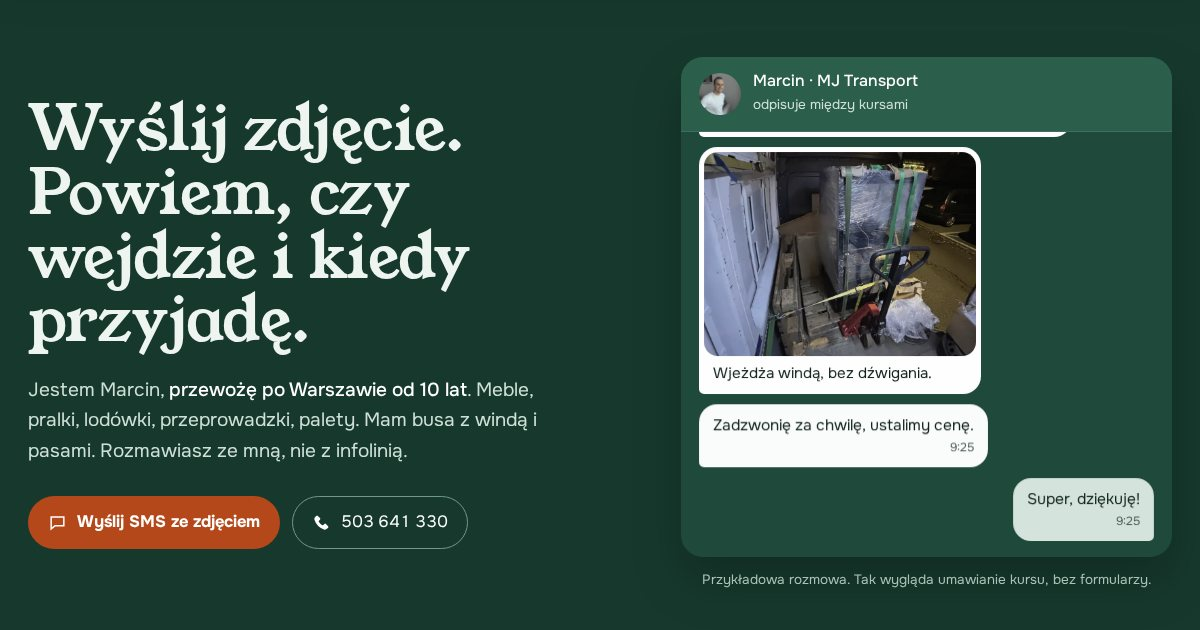
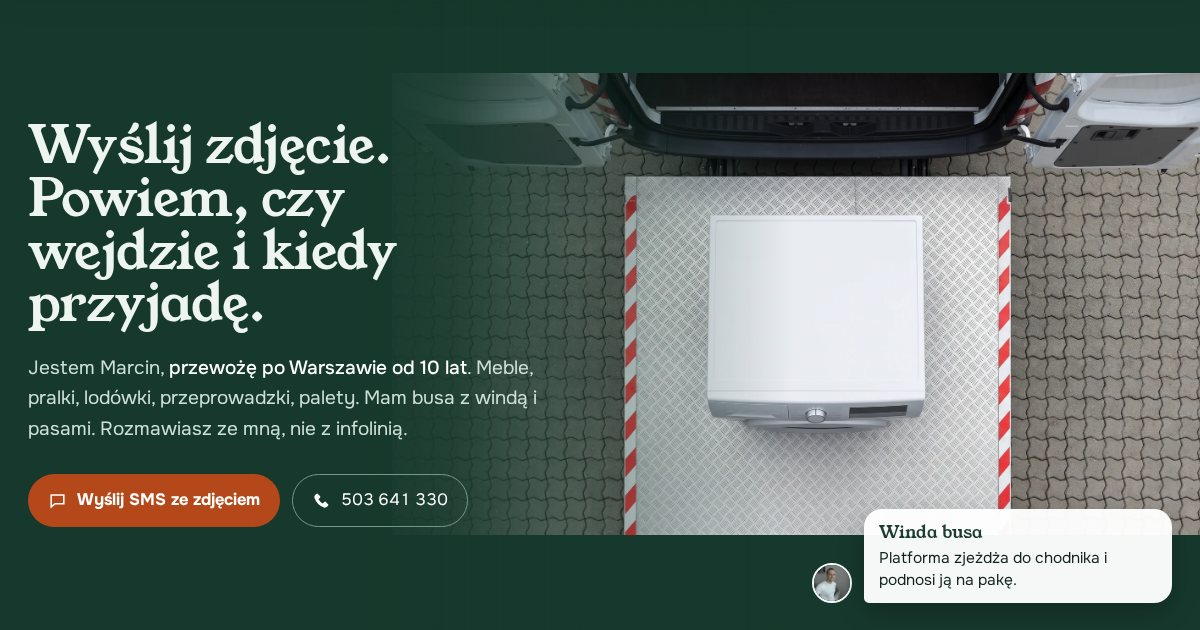
MJ Transport W2: nowe hero — pralka z góry w czterech kadrach (mieszkanie, klatka, winda busa, paka), czat przeniesiony do sekcji pytań
Claude-Session: https://claude.ai/code/session_01USdgDgttiw38zyboxaxrj8

diff --git a/p/mj-transport-w2-rozmowa/index.html b/p/mj-transport-w2-rozmowa/index.html
@@ -56,13 +56,9 @@ section[id]{scroll-margin-top:calc(var(--hdr-h) + 8px)}
 .mnav nav a{display:block;padding:12px 20px;text-decoration:none;font-size:16px}
 .mnav nav a.mcall{color:var(--or-d);font-weight:700}
 
-/* hero */
-.hero{background:var(--g);color:var(--ontxt);padding-top:var(--hdr-h);position:relative}
-.js .hero{height:300vh}
-.pin{min-height:calc(100vh - var(--hdr-h));display:flex;align-items:center;padding:40px 0}
-.js .pin{position:sticky;top:var(--hdr-h);height:calc(100vh - var(--hdr-h))}
-.hero .wrap{display:grid;grid-template-columns:6fr 5fr;gap:64px;align-items:center}
-.h1{font-family:var(--f-d);font-weight:400;font-size:clamp(42px,5.2vw,76px);line-height:1.02;letter-spacing:-.01em}
+
+/* hero: pralka z góry */
+.h1{font-family:var(--f-d);font-weight:400;font-size:clamp(38px,4.3vw,64px);line-height:1.02;letter-spacing:-.01em}
 .lead{margin-top:22px;font-size:19px;color:#CFE0D8;max-width:40ch}
 .lead b{color:#fff;font-weight:500}
 .ctas{display:flex;flex-wrap:wrap;gap:12px;margin-top:30px}
@@ -71,7 +67,27 @@ section[id]{scroll-margin-top:calc(var(--hdr-h) + 8px)}
 .btn-or svg,.btn-ln svg{width:19px;height:19px}
 .btn-ln{display:inline-flex;align-items:center;gap:10px;border:1.5px solid #6E9A87;color:#fff;text-decoration:none;padding:12px 19px;border-radius:999px;font-size:16.5px}
 .btn-ln:hover{border-color:#fff}
-
+.hero{background:var(--g);color:var(--ontxt);padding-top:var(--hdr-h);position:relative}
+.js .hero{height:420vh}
+.pin{position:relative;min-height:calc(100vh - var(--hdr-h));overflow:hidden;display:flex;align-items:center}
+.js .pin{position:sticky;top:var(--hdr-h);height:calc(100vh - var(--hdr-h))}
+.scene{position:absolute;inset:0;background:var(--g)}
+.scene .still{position:absolute;right:0;top:0;height:100%;width:72%;object-fit:cover;object-position:50% 52%}
+.scene canvas{position:absolute;inset:0;width:100%;height:100%;display:none}
+.js .scene canvas{display:block}.js .scene .still{display:none}
+.scene::after{content:"";position:absolute;inset:0;background:linear-gradient(90deg,var(--g) 0%,var(--g) 30%,rgba(23,57,45,.9) 38%,rgba(23,57,45,.35) 52%,rgba(23,57,45,0) 66%);pointer-events:none}
+.htxt{position:relative;z-index:2;display:flex;align-items:center;justify-content:space-between;gap:40px;height:100%}
+.hcol{max-width:520px}
+.bub{align-self:flex-end;margin-bottom:6vh;display:flex;gap:12px;align-items:flex-end;max-width:360px;transition:opacity .35s}
+.bub img{width:40px;height:40px;border-radius:50%;object-fit:cover;object-position:50% 18%;flex:none;border:2px solid #fff}
+.bub p{background:#fff;color:var(--ink);border-radius:18px 18px 18px 5px;padding:11px 15px;font-size:15.5px;line-height:1.45;box-shadow:0 10px 30px rgba(0,0,0,.25)}
+.bub b{display:block;font-family:var(--f-d);font-weight:400;font-size:17px;color:var(--g);margin-bottom:2px}
+.bub.fade{opacity:0}
+.scrollhint{position:absolute;left:28px;bottom:18px;z-index:2;font-size:13.5px;color:var(--onmute);display:flex;gap:8px;align-items:center;transition:opacity .4s}
+.scrollhint i{display:block;width:1px;height:26px;background:var(--onmute);animation:hint 1.8s infinite}
+@keyframes hint{0%{transform:scaleY(.2);transform-origin:top}50%{transform:scaleY(1);transform-origin:top}100%{transform:scaleY(.2);transform-origin:bottom}}
+.chat.static{height:auto;box-shadow:none;border:1px solid rgba(255,255,255,.1)}
+.chat.static .thread{overflow:visible}
 .chat{background:var(--g2);border-radius:22px;padding:0;overflow:hidden;display:flex;flex-direction:column;height:min(500px,calc(100vh - var(--hdr-h) - 80px));box-shadow:0 24px 50px rgba(0,0,0,.22)}
 .chat-h{display:flex;align-items:center;gap:12px;padding:14px 18px;border-bottom:1px solid rgba(255,255,255,.1);background:var(--g3)}
 .chat-h img{width:42px;height:42px;border-radius:50%;object-fit:cover;object-position:50% 18%}
@@ -114,8 +130,8 @@ section[id]{scroll-margin-top:calc(var(--hdr-h) + 8px)}
 .me figcaption{font-size:14.5px;color:var(--mute);margin-top:12px}
 
 /* pytania */
-.faq-grid{display:grid;grid-template-columns:4fr 8fr;gap:64px;align-items:start}
-.faq-grid .side{position:sticky;top:calc(var(--hdr-h) + 30px)}
+.faq-grid{display:grid;grid-template-columns:5fr 7fr;gap:64px;align-items:start}
+.faq-grid .side{position:static}
 .faq-grid .side p{color:var(--onmute);margin-top:18px;max-width:30ch}
 .faq details{border-top:1px solid rgba(255,255,255,.16)}
 .faq details:last-child{border-bottom:1px solid rgba(255,255,255,.16)}
@@ -175,14 +191,14 @@ footer b{font-family:var(--f-d);font-weight:400;color:var(--g);font-size:20px}
 
 @media(max-width:1060px){
   .nav{display:none}.mnav{display:block}
-  .hero .wrap{grid-template-columns:1fr;gap:22px}
-  .pin{align-items:flex-start;padding:22px 0}
   .me,.faq-grid,.contact{grid-template-columns:1fr;gap:40px}
   .faq-grid .side{position:static}
   .me figure{max-width:420px}
-  .js .pin .wrap{height:100%;grid-template-rows:auto minmax(0,1fr);align-items:stretch}
-  .js .chatwrap{min-height:0;display:flex;flex-direction:column}
-  .js .chat{flex:1;min-height:0;height:auto}
+  .htxt{flex-direction:column;align-items:flex-start;justify-content:space-between;padding-top:26px;padding-bottom:22px}
+  .scene .still{width:100%;height:78%;top:auto;bottom:0}
+  .scene::after{background:linear-gradient(180deg,var(--g) 0%,var(--g) 24%,rgba(23,57,45,.6) 31%,rgba(23,57,45,0) 40%)}
+  .bub{align-self:flex-start;margin-bottom:0}
+  .scrollhint{display:none}
 }
 @media(max-width:760px){
   body{font-size:16.5px}
@@ -193,8 +209,9 @@ footer b{font-family:var(--f-d);font-weight:400;color:var(--g);font-size:20px}
   .h1{font-size:34px}
   .hero .lead{display:none}
   .hero .ctas{display:none}
-  .js .pin{min-height:0;height:calc(100svh - var(--hdr-h) - 68px);padding:16px 0}
-  .hero .wrap{gap:14px}
+  .js .pin{min-height:0;height:calc(100svh - var(--hdr-h) - 68px)}
+  .pin{min-height:calc(100svh - var(--hdr-h) - 68px)}
+  .bub p{font-size:14.5px;padding:9px 13px}.bub b{font-size:16px}
   .msg{font-size:14.5px}
   .chat-h{padding:10px 14px}.chat-h img{width:34px;height:34px}
   .thread{padding:12px;gap:8px}
@@ -219,9 +236,9 @@ footer b{font-family:var(--f-d);font-weight:400;color:var(--g);font-size:20px}
 @media(prefers-reduced-motion:reduce){
   html{scroll-behavior:auto}
   .js .hero{height:auto}
-  .js .pin{position:relative;top:0;height:auto}
-  .js .thread .h{display:block}.js .thread .typing.h{display:none}
-  .chat{height:auto}
+  .js .pin{position:relative;top:0}
+  .js .scene canvas{display:none}.js .scene .still{display:block}
+  .scrollhint i{animation:none}
   .js .reveal,.js .stagger>*{opacity:1!important;transform:none!important;transition:none!important}
   .typing i{animation:none}
 }
@@ -241,10 +258,14 @@ footer b{font-family:var(--f-d);font-weight:400;color:var(--g);font-size:20px}
 </div>
 
 <main id="start">
-<section class="hero" id="hero" aria-label="Wycena przez SMS">
+<section class="hero" id="hero" aria-label="Pralka w drodze z mieszkania do busa">
   <div class="pin">
-    <div class="wrap">
-      <div>
+    <div class="scene" aria-hidden="true">
+      <img class="still" src="img/hero-s1-2000.webp" srcset="img/hero-s1-1100.webp 1100w, img/hero-s1-2000.webp 2000w" sizes="100vw" width="2000" height="1116" alt="">
+      <canvas id="cv"></canvas>
+    </div>
+    <div class="wrap htxt">
+      <div class="hcol">
         <h1 class="h1">Wyślij zdjęcie. Powiem, czy wejdzie i&nbsp;kiedy przyjadę.</h1>
         <p class="lead">Jestem Marcin, <b>przewożę po Warszawie od 10 lat</b>. Meble, pralki, lodówki, przeprowadzki, palety. Mam busa z windą i pasami. Rozmawiasz ze mną, nie z infolinią.</p>
         <div class="ctas">
@@ -252,24 +273,9 @@ footer b{font-family:var(--f-d);font-weight:400;color:var(--g);font-size:20px}
           <a class="btn-ln tn" href="tel:+48503641330"><svg viewBox="0 0 24 24" fill="currentColor" aria-hidden="true"><path d="M20.3 16.6l-2.7-2.7a1.4 1.4 0 0 0-2 0l-1.3 1.3a1 1 0 0 1-1.2.2 13 13 0 0 1-4.5-4.5 1 1 0 0 1 .2-1.2l1.3-1.3a1.4 1.4 0 0 0 0-2L7.4 3.7a1.4 1.4 0 0 0-2 0L4 5.1c-1 1-1.3 2.5-.8 3.8a19 19 0 0 0 11.9 11.9c1.3.5 2.8.2 3.8-.8l1.4-1.4a1.4 1.4 0 0 0 0-2z"/></svg>503 641 330</a>
         </div>
       </div>
-      <div class="chatwrap">
-        <div class="chat" role="img" aria-label="Przykładowa rozmowa: klient pyta o przewóz szafy i pralki, Marcin potwierdza termin">
-          <div class="chat-h"><img src="img/marcin-800.webp" width="42" height="42" alt=""><div><b>Marcin · MJ Transport</b><small>odpisuje między kursami</small></div></div>
-          <div class="thread" id="thread">
-            <div class="msg c">Dzień dobry, szafa trzydrzwiowa i pralka, z Mokotowa na Bielany. 3 piętro, winda w bloku jest. Da Pan radę w sobotę?<time>9:12</time></div>
-            <div class="msg m">Dzień dobry, da radę. Sobota 10:00 pasuje?<time>9:20</time></div>
-            <div class="msg c h" data-t=".14">Pasuje. A szafa nie ucierpi? Jest dość delikatna.<time>9:21</time></div>
-            <div aria-hidden="true" class="typing h" data-t=".22" data-until=".34"><i></i><i></i><i></i></div>
-            <div class="msg m h" data-t=".34">Owinę ją kocami i folią, pralka jedzie w pionie przypięta pasami. Tak to u mnie wygląda:<time>9:24</time></div>
-            <div class="msg m ph h" data-t=".46"><img src="img/pasy-agd-800.webp" width="800" height="600" alt="Lodówka spięta pasami w busie"><span>Wjeżdża windą, bez dźwigania.</span></div>
-            <div class="msg m h" data-t=".6">Zadzwonię za chwilę, ustalimy cenę.<time>9:25</time></div>
-            <div class="msg c h" data-t=".72">Super, dziękuję!<time>9:25</time></div>
-            <div class="ok h" data-t=".84">Sobota, 10:00 — umówione</div>
-          </div>
-        </div>
-        <p class="note">Przykładowa rozmowa. Tak wygląda umawianie kursu, bez formularzy.</p>
-      </div>
+      <div class="bub" aria-live="polite"><img src="img/marcin-800.webp" width="40" height="40" alt=""><p><b id="bt">Przedpokój</b><span id="bw">Pralka czeka na koc i wózek. Resztę biorę na siebie.</span></p></div>
     </div>
+    <div class="scrollhint" aria-hidden="true"><i></i>przewiń</div>
   </div>
 </section>
 
@@ -291,7 +297,20 @@ footer b{font-family:var(--f-d);font-weight:400;color:var(--g);font-size:20px}
 
 <section class="sec green" id="pytania">
   <div class="wrap faq-grid">
-    <div class="side"><h2 class="h2 reveal">O to pytacie mnie najczęściej</h2><p class="reveal">Jeśli Twojego pytania tu nie ma, zadzwoń, odpowiem od razu.</p></div>
+    <div class="side"><h2 class="h2 reveal">O to pytacie mnie najczęściej</h2><p class="reveal">A tak zwykle wygląda umawianie kursu. Bez formularzy.</p>
+      <div class="reveal" style="margin-top:26px"><div class="chat static" role="img" aria-label="Przykładowa rozmowa: klient pyta o przewóz szafy i pralki, Marcin potwierdza termin">
+          <div class="chat-h"><img src="img/marcin-800.webp" width="42" height="42" alt=""><div><b>Marcin · MJ Transport</b><small>odpisuje między kursami</small></div></div>
+          <div class="thread" id="thread">
+            <div class="msg c">Dzień dobry, szafa trzydrzwiowa i pralka, z Mokotowa na Bielany. 3 piętro, winda w bloku jest. Da Pan radę w sobotę?<time>9:12</time></div>
+            <div class="msg m">Dzień dobry, da radę. Sobota 10:00 pasuje?<time>9:20</time></div>
+            <div class="msg c">Pasuje. A szafa nie ucierpi? Jest dość delikatna.<time>9:21</time></div>
+            <div class="msg m">Owinę ją kocami i folią, pralka jedzie w pionie przypięta pasami. Tak to u mnie wygląda:<time>9:24</time></div>
+            <div class="msg m ph"><img src="img/pasy-agd-800.webp" width="800" height="600" alt="Lodówka spięta pasami w busie"><span>Wjeżdża windą, bez dźwigania.</span></div>
+            <div class="msg m">Zadzwonię za chwilę, ustalimy cenę.<time>9:25</time></div>
+            <div class="msg c">Super, dziękuję!<time>9:25</time></div>
+            <div class="ok">Sobota, 10:00 — umówione</div>
+          </div>
+        </div></div></div>
     <div class="faq stagger">
       <details open><summary>Ile kosztuje kurs?<svg viewBox="0 0 24 24" fill="none" stroke="currentColor" stroke-width="2" aria-hidden="true"><path d="M12 5v14M5 12h14"/></svg></summary><p>Zależy od rodzaju i wielkości ładunku, trasy i piętra. Cenę ustalamy w rozmowie, zanim przyjadę. Bez niespodzianek i pustych kosztów na miejscu.</p></details>
       <details><summary>Wniesie Pan rzeczy do mieszkania?<svg viewBox="0 0 24 24" fill="none" stroke="currentColor" stroke-width="2" aria-hidden="true"><path d="M12 5v14M5 12h14"/></svg></summary><p>Tak. Robię cały kurs: załadunek, przewóz, rozładunek i wniesienie na miejsce. Napisz, które piętro i czy w budynku jest winda.</p></details>
@@ -367,21 +386,51 @@ const sweep=()=>els.forEach(e=>{if(!e.classList.contains('in')&&e.getBoundingCli
 let st; addEventListener('scroll',()=>{clearTimeout(st);st=setTimeout(sweep,140)},{passive:true});
 setTimeout(()=>{if(!fired)els.forEach(e=>e.classList.add('in'))},4000);
 
-/* hero: rozmowa */
-if(matchMedia('(prefers-reduced-motion:reduce)').matches) return;
-const hero=document.getElementById('hero'), pin=hero.querySelector('.pin');
-const thread=document.getElementById('thread'), items=[...thread.querySelectorAll('[data-t]')];
-const cl=v=>Math.max(0,Math.min(1,v));
-let raf=0;
-function upd(){raf=0;
-  const r=hero.getBoundingClientRect(), span=(r.height-pin.offsetHeight-parseFloat(getComputedStyle(pin).top||0))*.92;
-  const p=span>0?cl(-r.top/span):0;
-  items.forEach(el=>{const t=+el.dataset.t, u=el.dataset.until?+el.dataset.until:2, on=p>=t&&p<u;
-    if(on&&el.classList.contains('h')){el.classList.remove('h');el.classList.add('show')}
-    else if(!on&&!el.classList.contains('h')){el.classList.add('h');el.classList.remove('show')}});
-  thread.scrollTop=thread.scrollHeight;
+/* hero: pralka z góry — cztery kadry, pralka zablokowana w kadrze */
+const hero=document.getElementById('hero'), pin=hero.querySelector('.pin'), cv=document.getElementById('cv'), cx=cv.getContext('2d');
+const hint=hero.querySelector('.scrollhint'), bub=hero.querySelector('.bub'), bt=document.getElementById('bt'), bw=document.getElementById('bw');
+const small=Math.min(innerWidth,screen.width)*Math.min(devicePixelRatio||1,2)<=1000;
+// pudełko pralki w każdym kadrze: środek (x,y) i szerokość górnej płyty, jako ułamki obrazu
+const W=[{n:'s1',b:[.4997,.5143,.1817],t:'Przedpokój',w:'Pralka czeka na koc i wózek. Resztę biorę na siebie.'},
+         {n:'s2',b:[.4997,.5143,.1817],t:'Klatka schodowa',w:'Znoszę ją na wózku, bez obijania ścian i schodów.'},
+         {n:'s3',b:[.5,.5417,.2511],t:'Winda busa',w:'Platforma zjeżdża do chodnika i podnosi ją na pakę.'},
+         {n:'s4',b:[.5,.651,.201],t:'Paka',w:'Dwa pasy do szyn i jedziemy. Tak samo z szafą czy lodówką.'}];
+const SRC={s1:['img/hero-s1-1100.webp','img/hero-s1-2000.webp'],s2:['img/hero-s2-1100.webp','img/hero-s2-2000.webp'],s3:['img/hero-s3-1100.webp','img/hero-s3-2000.webp'],s4:['img/hero-s4-1100.webp','img/hero-s4-2000.webp']};
+W.forEach(o=>{o.img=new Image();o.img.decoding='async';o.img.src=SRC[o.n][small?0:1];o.img.onload=()=>{o.ok=1;upd()}});
+const cl=v=>Math.max(0,Math.min(1,v)), ease=t=>t<.5?2*t*t:1-Math.pow(-2*t+2,2)/2, lerp=(a,b,t)=>a+(b-a)*t;
+// oś czasu: [start przejścia, koniec przejścia] między kadrami
+const X=[[.2,.3],[.44,.54],[.66,.76]];
+let cw=0,ch=0,dpr=1;
+function size(){dpr=Math.min(devicePixelRatio||1,2);cw=pin.clientWidth;ch=pin.clientHeight;cv.width=cw*dpr;cv.height=ch*dpr}
+function target(){ // gdzie ma stać pralka na ekranie
+  const mob=cw<1061; 
+  return mob?{x:cw*.5,y:ch*.56,w:Math.min(cw*.4,ch*.22)}:{x:cw*.68,y:ch*.5,w:Math.min(cw*.15,ch*.27)};
 }
-addEventListener('scroll',()=>{if(!raf)raf=requestAnimationFrame(upd)},{passive:true}); addEventListener('resize',upd); upd();
+function drawW(o,T,wf,a,dy){ if(!o.ok||a<=0)return; const im=o.img, k=(T.w*wf)/(o.b[2]*im.naturalWidth);
+  const w=im.naturalWidth*k,h=im.naturalHeight*k, x=T.x-o.b[0]*w, y=T.y-o.b[1]*h+dy;
+  cx.globalAlpha=a; cx.drawImage(im,x*dpr,y*dpr,w*dpr,h*dpr);}
+let last=-1;
+function draw(p){
+  if(!cw)size(); cx.setTransform(1,0,0,1,0,0); cx.globalAlpha=1; cx.fillStyle='#17392D'; cx.fillRect(0,0,cv.width,cv.height);
+  const T=target();
+  // powolne opadanie kamery przez cały przelot + wjazd w pakę na końcu
+  let wf=1+p*.35; const end=ease(cl((p-.84)/.16)); wf*=1+end*2.6;
+  let i=0,t=0; X.forEach((r,j)=>{if(p>=r[0])i=j+1; if(p>=r[0]&&p<r[1]){i=j;t=ease((p-r[0])/(r[1]-r[0]))}});
+  if(t>0&&i<3){const dy=ch*.14; drawW(W[i],T,wf,1,-dy*t); drawW(W[i+1],T,wf,t,dy*(1-t));}
+  else drawW(W[Math.min(i,3)],T,wf,1,0);
+  if(end>0){cx.globalAlpha=end*.92;cx.fillStyle='#17392D';cx.fillRect(0,0,cv.width,cv.height)}
+  const k=t>.5?Math.min(i+1,3):Math.min(i,3);
+  if(k!==last){last=k;bub.classList.add('fade');setTimeout(()=>{bt.textContent=W[k].t;bw.textContent=W[k].w;bub.classList.remove('fade')},180)}
+  bub.style.opacity=end>.4?0:'';
+  hint.style.opacity=p>.03?0:1;
+}
+let raf=0;
+function upd(){raf=0;const r=hero.getBoundingClientRect(), span=(r.height-pin.offsetHeight-parseFloat(getComputedStyle(pin).top||0))*.95;
+  draw(span>0?cl(-r.top/span):0)}
+addEventListener('scroll',()=>{if(!raf)raf=requestAnimationFrame(upd)},{passive:true});
+addEventListener('resize',()=>{size();upd()});
+if(matchMedia('(prefers-reduced-motion:reduce)').matches){return}
+size(); upd();
 })();
 </script>
 </body>
